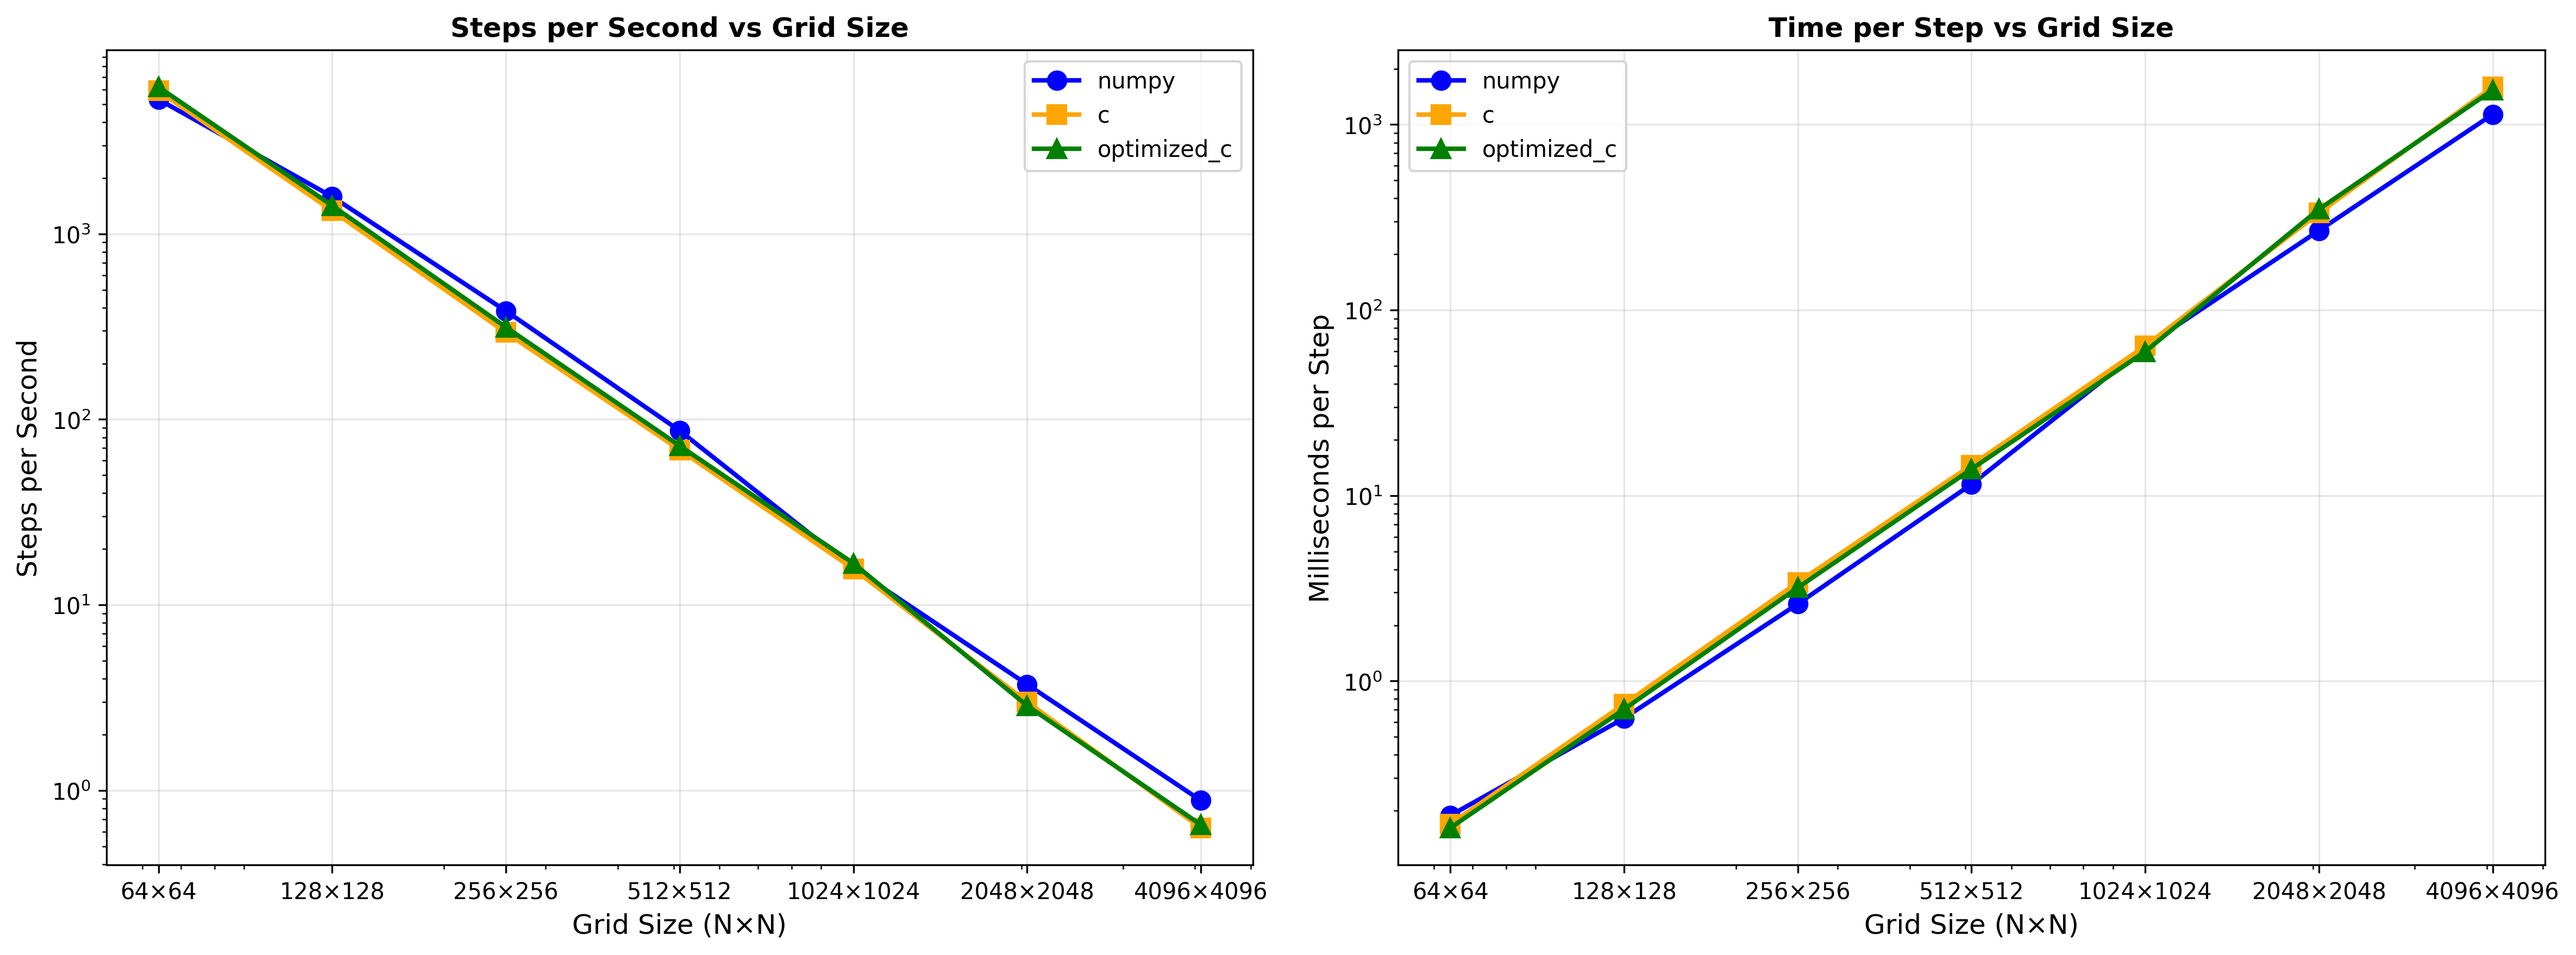
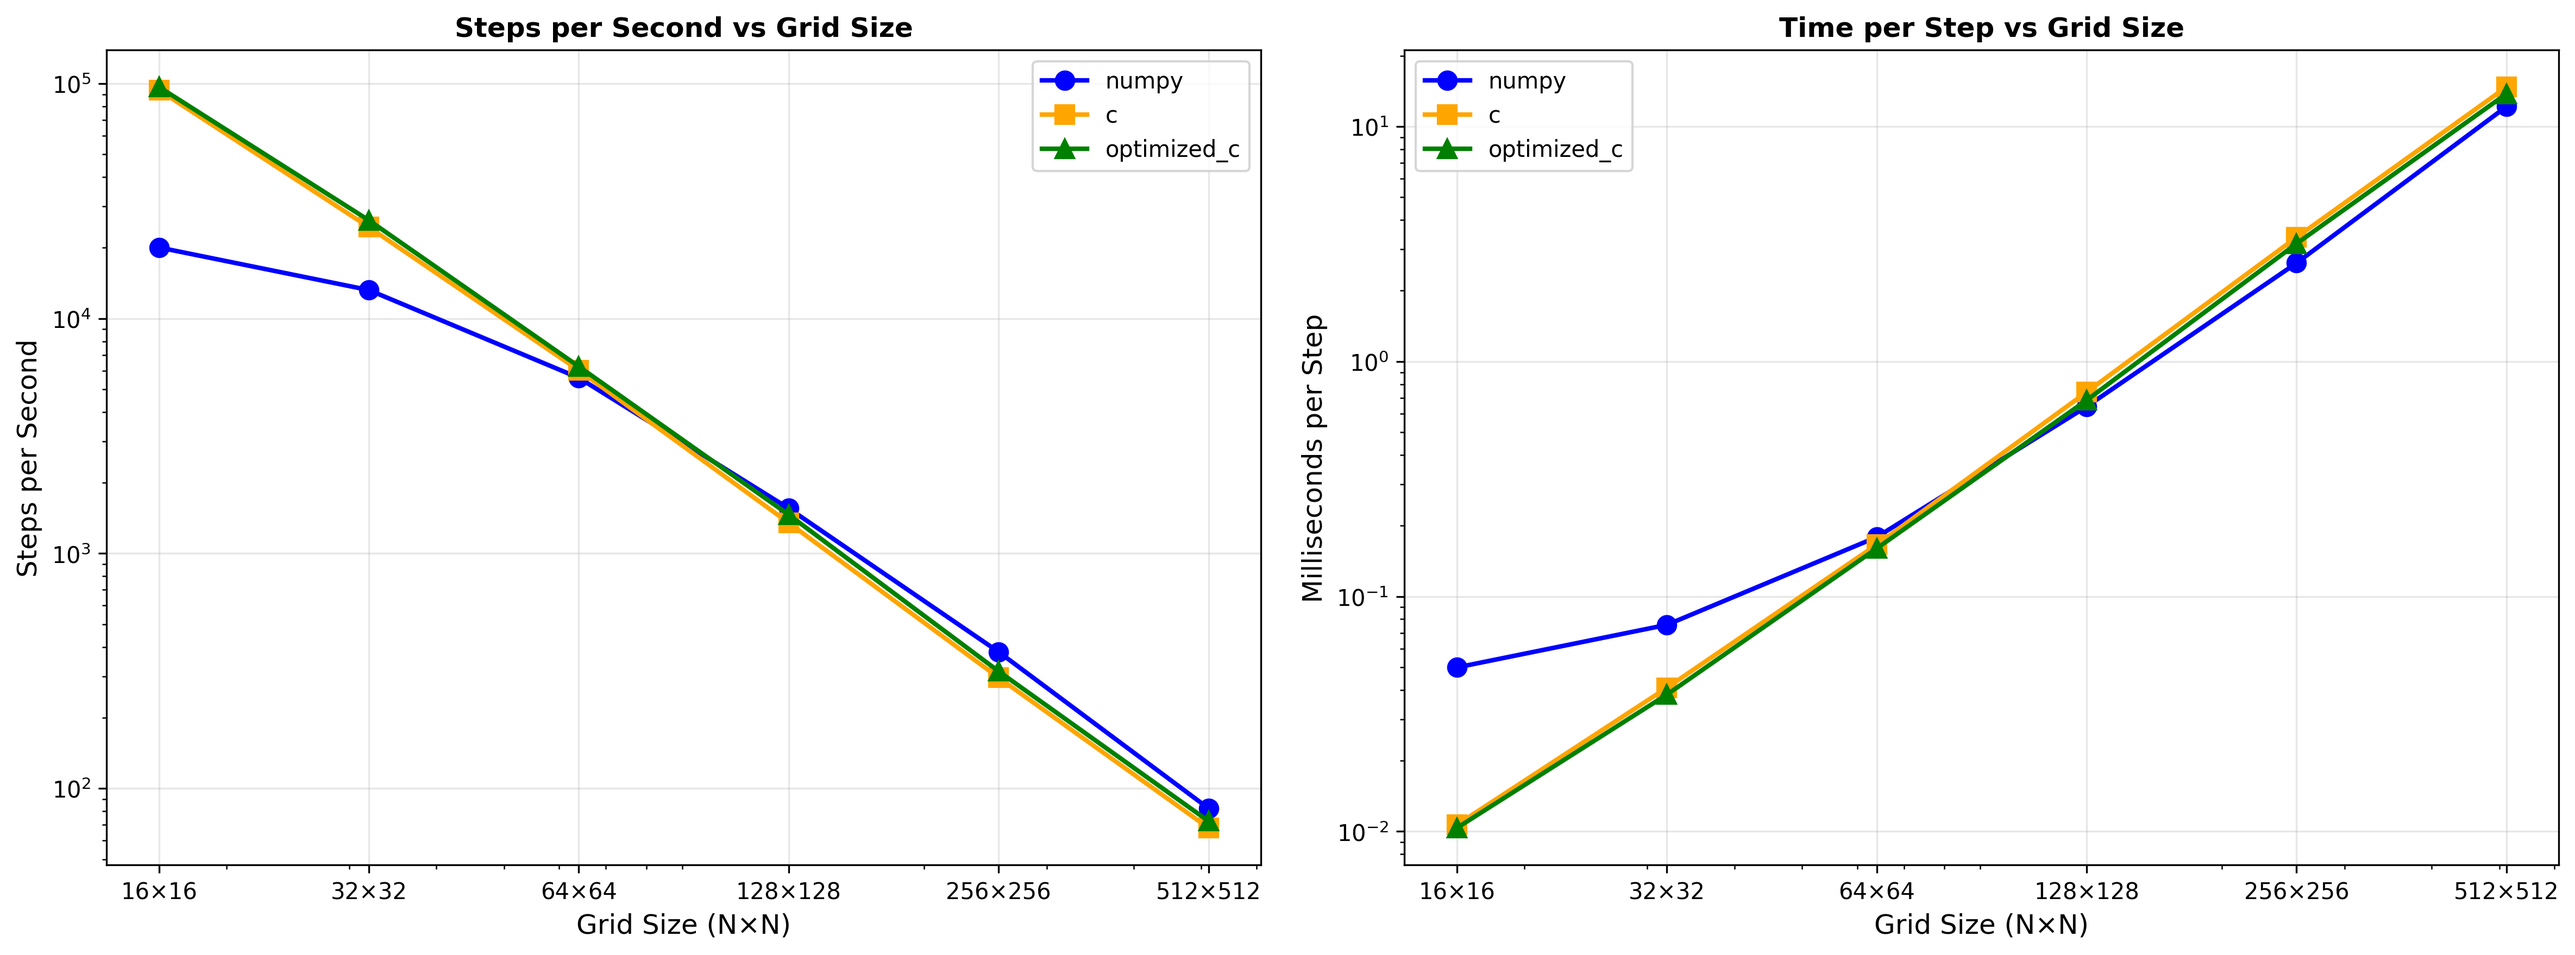
change sizes in benchmark

diff --git a/benchmark.py b/benchmark.py
@@ -77,7 +77,7 @@ print("Wave Simulation Backend Performance Benchmark")
 print("=" * 50)
 
 backends = ["numpy", "c", "optimized_c"]
-sizes = [64, 128, 256, 512, 1024, 2048, 4096]
+sizes = [16, 32, 64, 128, 256, 512]
 steps = 20
 
 results = {}
@@ -133,7 +133,9 @@ for size in sizes:
         plot_sizes.append(size)
         for backend in backends:
             if backend in results[size]:
-                plot_data[backend]["steps_per_sec"].append(results[size][backend]["steps_per_second"])
+                plot_data[backend]["steps_per_sec"].append(
+                    results[size][backend]["steps_per_second"]
+                )
                 plot_data[backend]["ms_per_step"].append(results[size][backend]["time_per_step"])
             else:
                 # Use NaN for failed backends to maintain array alignment
@@ -142,8 +144,8 @@ for size in sizes:
 
 # Plot 1: Steps per second
 plt.figure(figsize=(12, 8))
-colors = ['blue', 'orange', 'green', 'red']
-markers = ['o', 's', '^', 'D']
+colors = ["blue", "orange", "green", "red"]
+markers = ["o", "s", "^", "D"]
 
 for i, backend in enumerate(backends):
     steps_data = plot_data[backend]["steps_per_sec"]
@@ -152,19 +154,30 @@ for i, backend in enumerate(backends):
     if np.any(valid_indices):
         valid_sizes = np.array(plot_sizes)[valid_indices]
         valid_steps = np.array(steps_data)[valid_indices]
-        plt.plot(valid_sizes, valid_steps, marker=markers[i], color=colors[i], 
-                linewidth=2, markersize=8, label=backend)
+        plt.plot(
+            valid_sizes,
+            valid_steps,
+            marker=markers[i],
+            color=colors[i],
+            linewidth=2,
+            markersize=8,
+            label=backend,
+        )
 
-plt.xlabel('Grid Size (N×N)', fontsize=12)
-plt.ylabel('Steps per Second', fontsize=12)
-plt.title('Performance Comparison: Steps per Second vs Grid Size', fontsize=14, fontweight='bold')
+plt.xlabel("Grid Size (N×N)", fontsize=12)
+plt.ylabel("Steps per Second", fontsize=12)
+plt.title("Performance Comparison: Steps per Second vs Grid Size", fontsize=14, fontweight="bold")
 plt.legend(fontsize=10)
 plt.grid(True, alpha=0.3)
-plt.yscale('log')
-plt.xscale('log')
-plt.xticks(plot_sizes, [f'{s}×{s}' for s in plot_sizes])
+plt.yscale("log")
+plt.xscale("log")
+plt.xticks(plot_sizes, [f"{s}×{s}" for s in plot_sizes])
 plt.tight_layout()
-plt.savefig('/home/joacopolo/Documents/tp-final-orga2/results/steps_per_second.png', dpi=300, bbox_inches='tight')
+plt.savefig(
+    "/home/joacopolo/Documents/tp-final-orga2/results/steps_per_second.png",
+    dpi=300,
+    bbox_inches="tight",
+)
 plt.close()
 
 # Plot 2: Milliseconds per step
@@ -177,19 +190,30 @@ for i, backend in enumerate(backends):
     if np.any(valid_indices):
         valid_sizes = np.array(plot_sizes)[valid_indices]
         valid_ms = np.array(ms_data)[valid_indices]
-        plt.plot(valid_sizes, valid_ms, marker=markers[i], color=colors[i], 
-                linewidth=2, markersize=8, label=backend)
+        plt.plot(
+            valid_sizes,
+            valid_ms,
+            marker=markers[i],
+            color=colors[i],
+            linewidth=2,
+            markersize=8,
+            label=backend,
+        )
 
-plt.xlabel('Grid Size (N×N)', fontsize=12)
-plt.ylabel('Milliseconds per Step', fontsize=12)
-plt.title('Performance Comparison: Time per Step vs Grid Size', fontsize=14, fontweight='bold')
+plt.xlabel("Grid Size (N×N)", fontsize=12)
+plt.ylabel("Milliseconds per Step", fontsize=12)
+plt.title("Performance Comparison: Time per Step vs Grid Size", fontsize=14, fontweight="bold")
 plt.legend(fontsize=10)
 plt.grid(True, alpha=0.3)
-plt.yscale('log')
-plt.xscale('log')
-plt.xticks(plot_sizes, [f'{s}×{s}' for s in plot_sizes])
+plt.yscale("log")
+plt.xscale("log")
+plt.xticks(plot_sizes, [f"{s}×{s}" for s in plot_sizes])
 plt.tight_layout()
-plt.savefig('/home/joacopolo/Documents/tp-final-orga2/results/milliseconds_per_step.png', dpi=300, bbox_inches='tight')
+plt.savefig(
+    "/home/joacopolo/Documents/tp-final-orga2/results/milliseconds_per_step.png",
+    dpi=300,
+    bbox_inches="tight",
+)
 plt.close()
 
 # Combined plot
@@ -202,18 +226,25 @@ for i, backend in enumerate(backends):
     if np.any(valid_indices):
         valid_sizes = np.array(plot_sizes)[valid_indices]
         valid_steps = np.array(steps_data)[valid_indices]
-        ax1.plot(valid_sizes, valid_steps, marker=markers[i], color=colors[i], 
-                linewidth=2, markersize=8, label=backend)
+        ax1.plot(
+            valid_sizes,
+            valid_steps,
+            marker=markers[i],
+            color=colors[i],
+            linewidth=2,
+            markersize=8,
+            label=backend,
+        )
 
-ax1.set_xlabel('Grid Size (N×N)', fontsize=12)
-ax1.set_ylabel('Steps per Second', fontsize=12)
-ax1.set_title('Steps per Second vs Grid Size', fontsize=12, fontweight='bold')
+ax1.set_xlabel("Grid Size (N×N)", fontsize=12)
+ax1.set_ylabel("Steps per Second", fontsize=12)
+ax1.set_title("Steps per Second vs Grid Size", fontsize=12, fontweight="bold")
 ax1.legend(fontsize=10)
 ax1.grid(True, alpha=0.3)
-ax1.set_yscale('log')
-ax1.set_xscale('log')
+ax1.set_yscale("log")
+ax1.set_xscale("log")
 ax1.set_xticks(plot_sizes)
-ax1.set_xticklabels([f'{s}×{s}' for s in plot_sizes])
+ax1.set_xticklabels([f"{s}×{s}" for s in plot_sizes])
 
 # Milliseconds per step subplot
 for i, backend in enumerate(backends):
@@ -222,24 +253,35 @@ for i, backend in enumerate(backends):
     if np.any(valid_indices):
         valid_sizes = np.array(plot_sizes)[valid_indices]
         valid_ms = np.array(ms_data)[valid_indices]
-        ax2.plot(valid_sizes, valid_ms, marker=markers[i], color=colors[i], 
-                linewidth=2, markersize=8, label=backend)
+        ax2.plot(
+            valid_sizes,
+            valid_ms,
+            marker=markers[i],
+            color=colors[i],
+            linewidth=2,
+            markersize=8,
+            label=backend,
+        )
 
-ax2.set_xlabel('Grid Size (N×N)', fontsize=12)
-ax2.set_ylabel('Milliseconds per Step', fontsize=12)
-ax2.set_title('Time per Step vs Grid Size', fontsize=12, fontweight='bold')
+ax2.set_xlabel("Grid Size (N×N)", fontsize=12)
+ax2.set_ylabel("Milliseconds per Step", fontsize=12)
+ax2.set_title("Time per Step vs Grid Size", fontsize=12, fontweight="bold")
 ax2.legend(fontsize=10)
 ax2.grid(True, alpha=0.3)
-ax2.set_yscale('log')
-ax2.set_xscale('log')
+ax2.set_yscale("log")
+ax2.set_xscale("log")
 ax2.set_xticks(plot_sizes)
-ax2.set_xticklabels([f'{s}×{s}' for s in plot_sizes])
+ax2.set_xticklabels([f"{s}×{s}" for s in plot_sizes])
 
 plt.tight_layout()
-plt.savefig('/home/joacopolo/Documents/tp-final-orga2/results/combined_performance.png', dpi=300, bbox_inches='tight')
+plt.savefig(
+    "/home/joacopolo/Documents/tp-final-orga2/results/combined_performance.png",
+    dpi=300,
+    bbox_inches="tight",
+)
 plt.close()
 
 print("Plots saved to results/ directory:")
 print("- steps_per_second.png")
-print("- milliseconds_per_step.png") 
+print("- milliseconds_per_step.png")
 print("- combined_performance.png")
